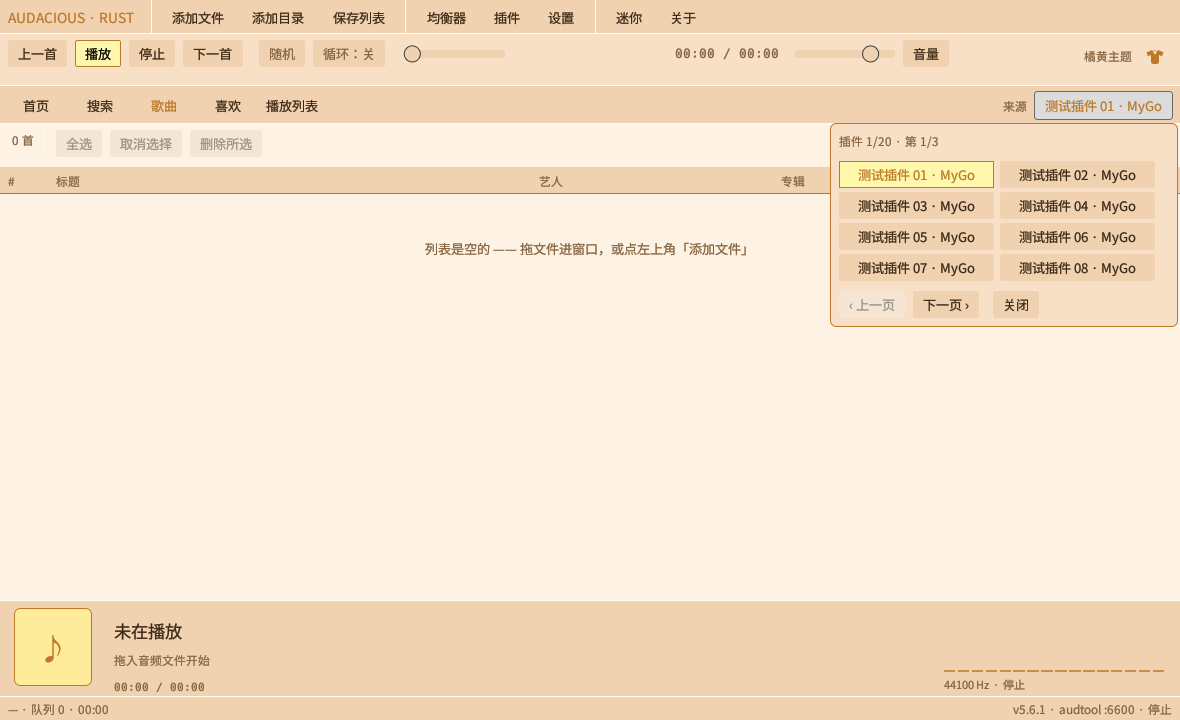
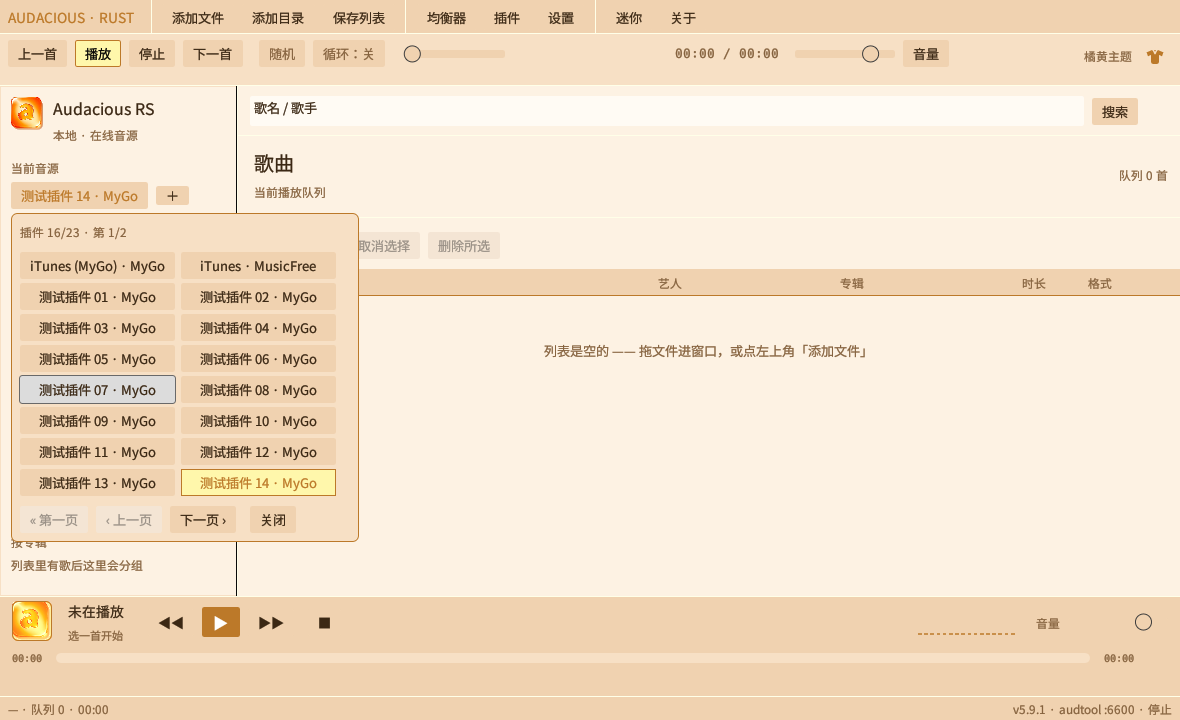
feat(ui): 插件选择器每页16个 + 回到首页，5.9.2

diff --git a/crates/audacious/src/app.rs b/crates/audacious/src/app.rs
@@ -2925,7 +2925,7 @@ impl App {
         }
     }
 
-    const PLUGIN_PAGE_SIZE: usize = 8;
+    const PLUGIN_PAGE_SIZE: usize = 16;
 
     /// 插件选择弹层：每页 8 个，底部翻页。
     fn plugin_picker_ui(
@@ -3006,6 +3006,15 @@ impl App {
                             });
                         ui.add_space(4.0);
                         ui.horizontal(|ui| {
+                            if ui
+                                .add_enabled(
+                                    self.plugin_page > 0,
+                                    egui::Button::new(self.t("« 第一页", "« First")),
+                                )
+                                .clicked()
+                            {
+                                self.plugin_page = 0;
+                            }
                             if ui
                                 .add_enabled(
                                     self.plugin_page > 0,

diff --git a/README.md b/README.md
@@ -151,11 +151,12 @@ MyGo 插件的 ES 模块改写/搜索/取地址/歌词/设置项。共 32 个用
 
 ## 版本
 
-版本号统一在 `Cargo.toml` 的 `workspace.package.version` 维护，按习惯从 **5.0** 起标，当前 **5.9.1**：
+版本号统一在 `Cargo.toml` 的 `workspace.package.version` 维护，按习惯从 **5.0** 起标，当前 **5.9.2**：
 
 - 5.0.0 首个可运行版本
 - 5.0.1 修掉 Windows 发布版弹出控制台窗口的问题，日志改写到 `%APPDATA%\audacious-rs\app.log`
 - 5.1.0 三套主题（橘黄 / 浅色 / 深色）与工具栏换肤按钮，默认橘黄
+- 5.9.2 插件选择器每页 16 个（两列八行），底部加「« 第一页」直接回首页；首页「当前在线音源」卡片的方法标签也改成中文
 - 5.9.1 插件设置项中文化：MyGo 插件声明的 label / help 走中文对照表（LRCLLib、LX 自定义源、目录浏览、下载音质等），没收录的原样显示；方法标签也改成「搜索 / 取流 / 歌词」；值为 null/undefined 的输入框显示为空并提示「未设置」
 - 5.9.0 换应用图标：橙色圆角「a」接入窗口图标、侧栏 Logo、未播放时的占位封面，并附 `dist/icon.png` / `dist/icon.ico`
 - 5.8.0 三件补齐新布局：歌词页按时间轴滚动高亮（走插件 `getLyric` / `lyrics`，LRC 解析 + 自动滚动）、侧栏「按专辑」可点进专辑视图（列出这张专辑的曲目、点行即播）、底部播放条压成一条细条（封面+信息+上一首/播放/下一首/停止+音量+频谱，下方通栏自绘进度条）
